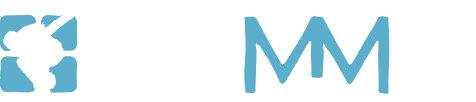
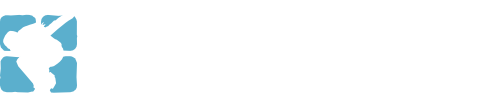
Updated the website with new info and new styles.

Changed region(s): [[0.5, 0.1471, 0.8235, 0.9412]]

diff --git a/Web/about.html b/Web/about.html
@@ -2,32 +2,46 @@
 
 {% block content %}
 	<h1>About</h1>
-	<div id="sidebar">
-		<h3>Need to get a hold of me?</h3>
-		<ul>
-			<li><a href="mailto:et1337@gmail.com">et1337@gmail.com</a></li>
-			<li><a href="http://twitter.com/et1337">@et1337</a></li>
-		</ul>
-	</div>
+	
+	<h3>What is this?</h3>
+	<p>
+		Lemma is an immersive <b>first-person parkour</b> game.
+		Every parkour move has the potential to <b>modify the environment</b>; surfaces pop in and out of existence at will.
+	</p>
+	
+	<h3>Where can I buy it?</h3>
+	<p>
+		Hopefully, on Steam and Desura very soon. <a href="http://steamcommunity.com/sharedfiles/filedetails/?id=105075009">Help me make it a reality on Steam!</a>
+	</p>
+	
 	<a href="http://gravatar.com/et1337"><img style="float: left; margin-right: 10px; margin-bottom: 10px;" src="http://www.gravatar.com/avatar/f1385752761906e7f9b0008c0c3d699f.png" /></a>
-	<h3>Hi! I'm Evan Todd.</h3>
+	<h3>Who are you?</h3>
 	<p>
-		<b>I'm the lead developer for Lemma.</b>
-		I started this project in my spare time in October 2010. The goal is to release a short and sweet single-player game on Desura and Steam.
+		Hi! I'm Evan, an independent developer from Ohio. I started this project in my spare time in October 2010. The goal is to release a short but sweet single-player game on Steam and Desura.
 	</p>
+	
+	<h3>How can I contact you?</h3>
+	<ul>
+		<li><a href="mailto:et1337@gmail.com">et1337@gmail.com</a></li>
+		<li><a href="http://twitter.com/et1337">@et1337</a></li>
+	</ul>
+	
+	<h3>Who else worked on this game?</h3>
 	<p>
-		<b>Right, on to the game then.</b>
-		Lemma is an immersive first-person parkour game set on a mysterious desolate island.
-		Every parkour move executed has the potential to modify the environment; surfaces pop in and out of existence at will.
-		As you delve deeper into the island, you communicate via text message with a mysterious person stranded somewhere on the island with you.
-	</p>
-	<p>
-		<b>Who's worked on this game?</b>
 		The music was composed by the lovely and talented <a href="http://jackmenhorn.com/">Jack Menhorn</a>. He also helped with many of the sound effects.
-		I pulled the other sounds from <a href="http://freesound.org">FreeSound</a> and edited them in <a href="http://audacity.sourceforge.net/">Audacity</a>. The full attribution list is available with the game.
+		I mixed the other sounds from <a href="http://freesound.org">FreeSound</a> samples. The full attribution list is available <a href="https://github.com/et1337/Lemma/blob/master/attribution.txt">here</a>.
 	</p>
+	
+	<h3>Is Lemma open source?</h3>
 	<p>
-		And now... LET THEM HAVE EYE CANDY!
+		<b>Mostly yes!</b>
+		The engine, editor, and some of the assets are open source, <a href="https://github.com/et1337/Lemma">right here on GitHub!</a>
+		Most of the actual game content is not open source largely due to licensing issues.
+	</p>
+	
+	<h3>Got any eye candy?</h3>
+	<p>
+		So glad you asked.
 	</p>
 	<iframe class="imgur-album" width="100%" height="550" frameborder="0" src="http://imgur.com/a/gohmo/embed"></iframe>
 {% endblock %}

diff --git a/Web/output/base.css b/Web/output/base.css
@@ -15,7 +15,7 @@ html, body
 
 body
 {
-	background-color: #000;
+	background-color: #fff;
 	color: #fff;
 }
 
@@ -28,6 +28,12 @@ a
 a img
 {
 	border: 0px;
+}
+
+blockquote
+{
+	margin-left: 0px;
+	margin-right: 0px;
 }
 
 #container
@@ -59,9 +65,11 @@ a:hover
 
 h1, h2, h3
 {
-	margin-top: 0px;
+	margin-top: 20px;
+	margin-bottom: 0px;
 	font-family: Signika;
 	text-transform: uppercase;
+	line-height: 100%;
 }
 
 h1
@@ -86,8 +94,8 @@ h3
 	padding-right: 5%;
 	padding-top: 10px;
 	padding-bottom: 10px;
-	background-color: black;
 	font-family: Signika;
+	background-color: #fff;
 }
 
 tr td
@@ -100,7 +108,7 @@ tr td
 	text-transform: uppercase;
 	font-size: medium;
 	font-weight: normal;
-	color: #fff;
+	color: #000;
 }
 
 #menu tr td a:hover
@@ -125,11 +133,20 @@ table
 
 article
 {
-	background-color: rgb(30, 30, 30);
+	background-color: #262626;
 	padding: 10px;
 }
 
-article p
+blockquote
+{
+	background-color: #fff;
+	color: #000;
+	padding: 10px;
+	border-radius: 5px;
+	font-size: larger;
+}
+
+p
 {
 	line-height: 150%;
 }
@@ -176,6 +193,7 @@ article #news img
 		background-image: url(graphics/header-background.jpg);
 		background-repeat: no-repeat;
 		background-position: center top;
+		background-color: #000;
 	}
 
 	article
@@ -183,7 +201,7 @@ article #news img
 		padding: 20px;
 		padding-left: 40px;
 		padding-right: 40px;
-		background-color: rgba(255, 255, 255, 0.1);
+		background-color: rgba(40, 40, 40, 0.85);
 	}
 
 	#sidebar
@@ -194,6 +212,18 @@ article #news img
 
 @media screen and (min-width: 960px)
 {
+	#menu
+	{
+		border-top-left-radius: 8px;
+		border-top-right-radius: 8px;
+	}
+
+	blockquote
+	{
+		margin-left: 40px;
+		margin-right: 40px;
+	}
+
 	article
 	{
 		padding: 30px;

diff --git a/Web/index.html b/Web/index.html
@@ -2,46 +2,17 @@
 
 {% block extrahead %}
 	<script src="https://www.google.com/jsapi"></script>
-	<script charset="utf-8" src="http://widgets.twimg.com/j/2/widget.js"></script>
 	<script src="feed.js"></script>
 {% endblock %}
 
 {% block content %}
+	<blockquote>
+		<iframe width="560" height="315" src="http://www.youtube.com/embed/6mXRlhofWks" frameborder="0" allowfullscreen></iframe>
+		<br />
+		<b>Lemma</b> is an immersive <b>first-person parkour</b> game.
+		Every parkour move has the potential to <b>modify the environment</b>. Surfaces pop in and out of existence at will!
+	</blockquote>
 	<h1><a href="http://et1337.wordpress.com/category/lemma">Blog</a></h1>
-	<div id="twitter-feed">
-	</div>
-	<script>
-		new TWTR.Widget(
-		{
-			version: 2,
-			type: 'profile',
-			rpp: 6,
-			interval: 30000,
-			height: 420,
-			id: 'twitter-feed',
-			theme:
-			{
-				shell:
-				{
-					background: '#333333',
-					color: '#ffffff'
-				},
-				tweets:
-				{
-					background: '#000000',
-					color: '#ffffff',
-					links: '#5bafcd'
-				}
-			},
-			features:
-			{
-				scrollbar: false,
-				loop: false,
-				live: true,
-				behavior: 'all'
-			}
-		}).render().setUser('et1337').start();
-	</script>
 	<div id="news">
 	</div>
 	<br />

diff --git a/Web/downloads.html b/Web/downloads.html
@@ -1,11 +1,15 @@
 {% extends "_base.html" %}
 
 {% block content %}
-	<h1>Downloads</h1>
+	<h1>Alphas</h1>
+	
+	<p>
+		<b>These are <em>unfinished</em> releases which do not reflect the state of the final product!</b>
+	</p>
 
-	<h3>Lemma Playable Alpha 2</h3>
+	<h3>Playable Alpha 2</h3>
 	<small>Sep 14, 2012</small><br />
-	<iframe width="560" height="315" src="http://www.youtube.com/embed/7h_hObwKjNw" frameborder="0" allowfullscreen style="margin-left: auto; margin-right: auto;"></iframe>
+	<iframe width="560" height="315" src="http://www.youtube.com/embed/7h_hObwKjNw" frameborder="0" allowfullscreen></iframe>
 	<table>
 		<tr>
 			<td style="width: 50%;">
@@ -29,9 +33,9 @@
 
 	<hr />
 
-	<h3>Lemma Playable Alpha 1</h3>
+	<h3>Playable Alpha 1</h3>
 	<small>Feb 27, 2012</small><br />
-	<iframe width="560" height="315" src="http://www.youtube.com/embed/lHB1y7FUWOA" frameborder="0" allowfullscreen style="margin-left: auto; margin-right: auto;"></iframe>
+	<iframe width="560" height="315" src="http://www.youtube.com/embed/lHB1y7FUWOA" frameborder="0" allowfullscreen></iframe>
 	<table>
 		<tr>
 			<td style="width: 50%;">

diff --git a/Web/_base.html b/Web/_base.html
@@ -15,17 +15,17 @@
 <body>
 	<div id="fb-root"></div>
 	<div id="container">
-		<header>
-			<h1 style="visibility: hidden;">Lemma</h1>
-		</header>
+		<a href="./">
+			<header>
+				<h1 style="visibility: hidden;">Lemma</h1>
+			</header>
+		</a>
 		<table id="menu">
 			<tr>
-				<td><a href="./">Blog</a></td>
 				<td><a href="about.html">About</a></td>
-				<td><a href="downloads.html">Downloads</a></td>
+				<td><a href="downloads.html">Alphas</a></td>
+				<td><a href="http://steamcommunity.com/sharedfiles/filedetails/?id=105075009">Steam</a></td>
 				<td><a href="http://moddb.com/games/lemma" target="new">ModDB</a></td>
-				<td><a href="http://twitter.com/et1337" target="new">Twitter</a></td>
-				<td><a href="http://facebook.com/lemmagame" target="new">Facebook</a></td>
 				<td>
 					<div class="fb-like" data-href="http://www.facebook.com/lemmagame" data-send="false" data-layout="button_count" data-width="100" data-show-faces="false" data-font="tahoma"></div>
 				</td>
